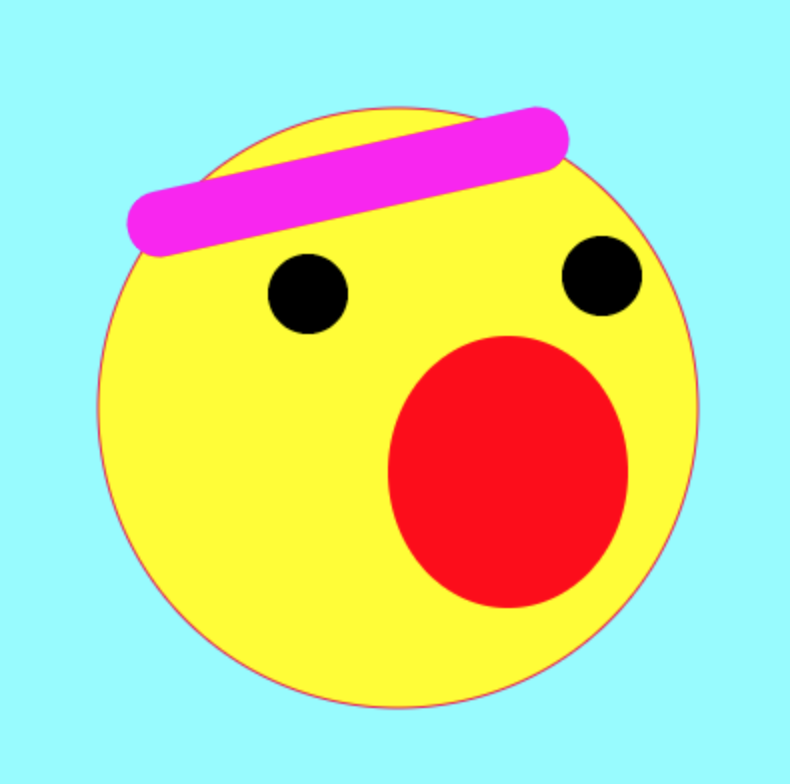
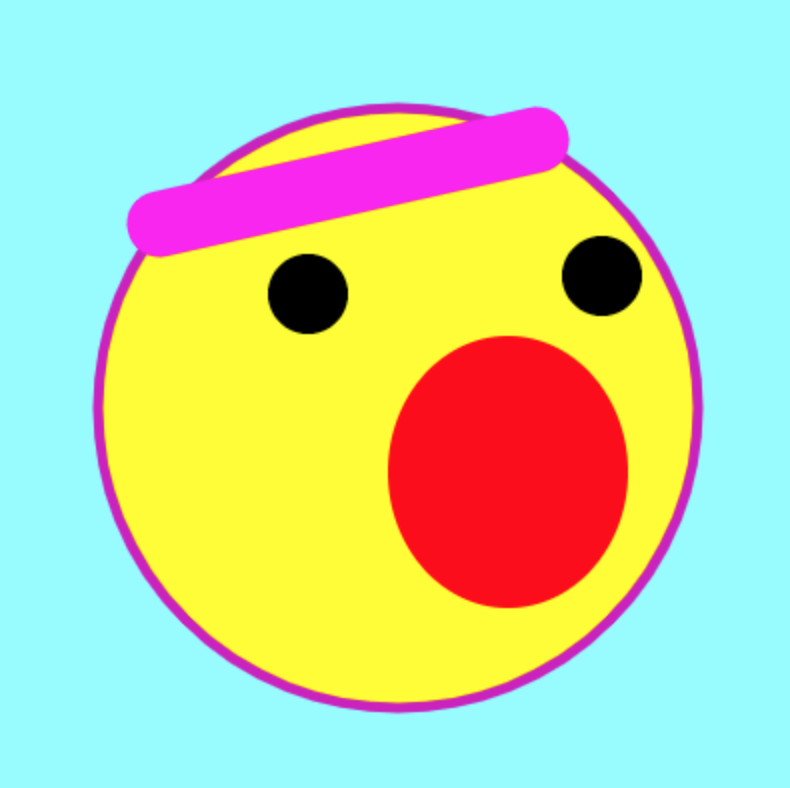
Detailed the introductions to strokeWeight, strok and noStroke

diff --git a/Notes/1-IntroToJS-2-Coloring-Documentation.html b/Notes/1-IntroToJS-2-Coloring-Documentation.html
@@ -5,7 +5,7 @@
 
 <meta charset="utf-8">
 <meta name="viewport" content="width=device-width, initial-scale=1.0, user-scalable=yes">
-<title>1-IntroToJS-2-Coloring</title>
+<title>1-IntroToJS-2-Coloring-Documentation</title>
 
 
 <style type="text/css">
@@ -342,34 +342,67 @@ kbd {
 
 <p><img src="Images/coloring.png" alt="coloring" width="300" height="300"/></p>
 
-<h3 id="toc_2">Make it colorful!</h3>
+<div><pre><code class="language-none">background(148, 251, 255); // RGB
+
+// face
+fill(255, 255, 0);
+strokeWeight(5);
+stroke(204, 16, 191);
+ellipse(202, 208, 300, 300);
+
+// no outlines
+noStroke();
+
+// eyes
+fill(0, 0, 0);
+ellipse(157, 151, 40, 40);
+ellipse(304, 142, 40, 40);
+
+// mouth
+fill(255, 0, 0);
+ellipse(257, 240, 120, 136);
+
+// headband
+strokeWeight(33);
+stroke(250, 0, 242);
+line(83, 116, 271, 74);</code></pre></div>
+
+<h3 id="toc_2">Make it colorful! 给你点颜色看看～～</h3>
 
 <ul>
-<li><code>background(red, green, blue);</code></li>
-<li><code>stroke(r, g, b);</code></li>
-<li><code>fill(r, g, b);</code></li>
+<li><code>background(red, green, blue);</code> 背景（底儿）的颜色</li>
+<li><code>stroke(r, g, b);</code> 形状轮廓线（边儿）的颜色</li>
+<li><code>fill(r, g, b);</code> 形状填充（瓤儿）的颜色</li>
 </ul>
 
-<p>底儿 - 边儿 - 瓤儿 ( color picker )</p>
-
-<h3 id="toc_3">边儿</h3>
+<h3 id="toc_3">Color-picker 选颜色</h3>
 
 <ul>
-<li><code>strokeWeight(thickness);</code></li>
-<li><code>noStroke();</code></li>
+<li>from 0 to 255 for each color</li>
+<li>(0, 0, 0): black </li>
+<li>(255, 255, 255): white</li>
 </ul>
 
-<h3 id="toc_4">Order for coloring</h3>
+<h3 id="toc_4">边儿</h3>
 
 <ul>
-<li><code>background(...)</code> will overlay everything.</li>
+<li><code>strokeWeight(thickness);</code> 轮廓线的宽度</li>
+<li> <code>stroke(r, g, b);</code> 轮廓线的颜色</li>
+<li><code>noStroke();</code> 没有轮廓线</li>
 </ul>
 
-<h4 id="toc_5">Challenge: Sunny snowy day</h4>
+<h3 id="toc_5">Order for coloring</h3>
+
+<ul>
+<li>后画的形状会覆盖掉前面画的形状</li>
+<li><code>background(...)</code> will overlay everything. </li>
+</ul>
+
+<h4 id="toc_6">Challenge: Sunny snowy day</h4>
 
 <p><img src="Images/sunnySnowyDay.png" alt="coloringChallenge" width="300" height="300"/></p>
 
-<h2 id="toc_6">Power of docs</h2>
+<h2 id="toc_7">Power of docs</h2>
 
 <blockquote>
 <p>I can&#39;t remember so many things ... 🤪</p>
@@ -394,7 +427,7 @@ kbd {
 
 <p>Or go ahead to start a <strong>New program</strong>! Maybe a deeper smile 😇</p>
 
-<h2 id="toc_7">Project: Dinner plate</h2>
+<h2 id="toc_8">Project: Dinner plate</h2>
 
 <p><img src="Images/dinnerPlate.png" alt="dinnerPlate" height="300" width="300"/></p>
 

diff --git a/index.html b/index.html
@@ -335,7 +335,8 @@ kbd {
 <h3 id="toc_2">Intro to JS</h3>
 
 <ol>
-<li><a href="Notes/1-IntroToJS-1-DrawingBasics-Coloring.html">DrawingBasics, Coloring</a></li>
+<li><a href="Notes/1-IntroToJS-1-Startup-DrawingBasics.html">Startup, DrawingBasics</a></li>
+<li><a href="Notes/1-IntroToJS-2-Coloring-Documentation.html">Coloring, Power of docs</a></li>
 </ol>
 
 
